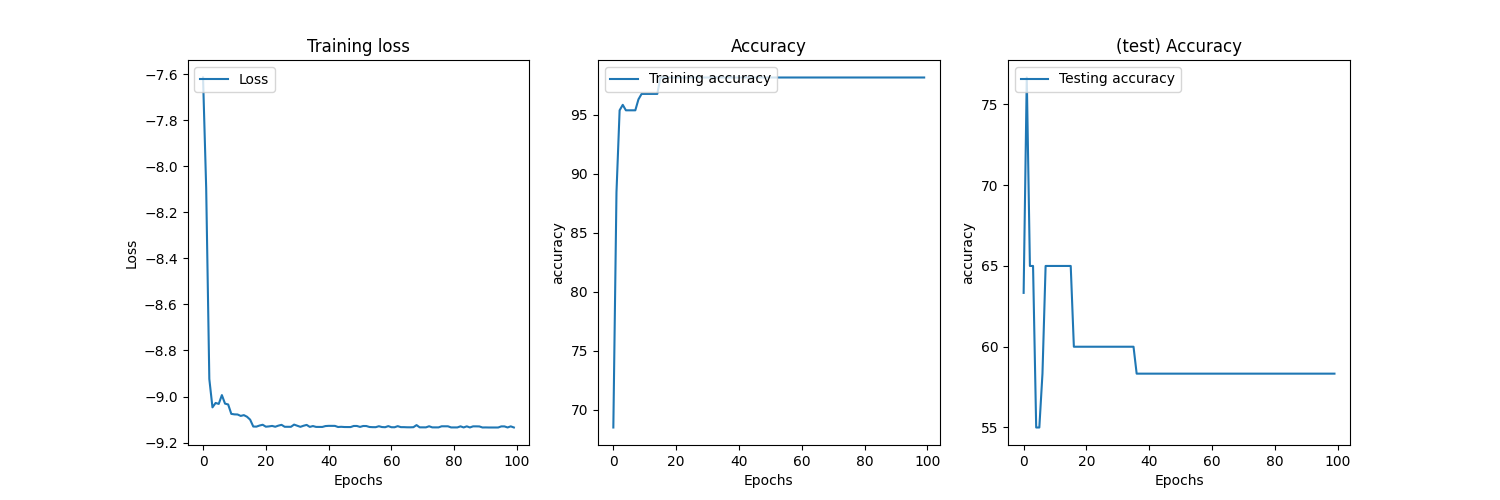
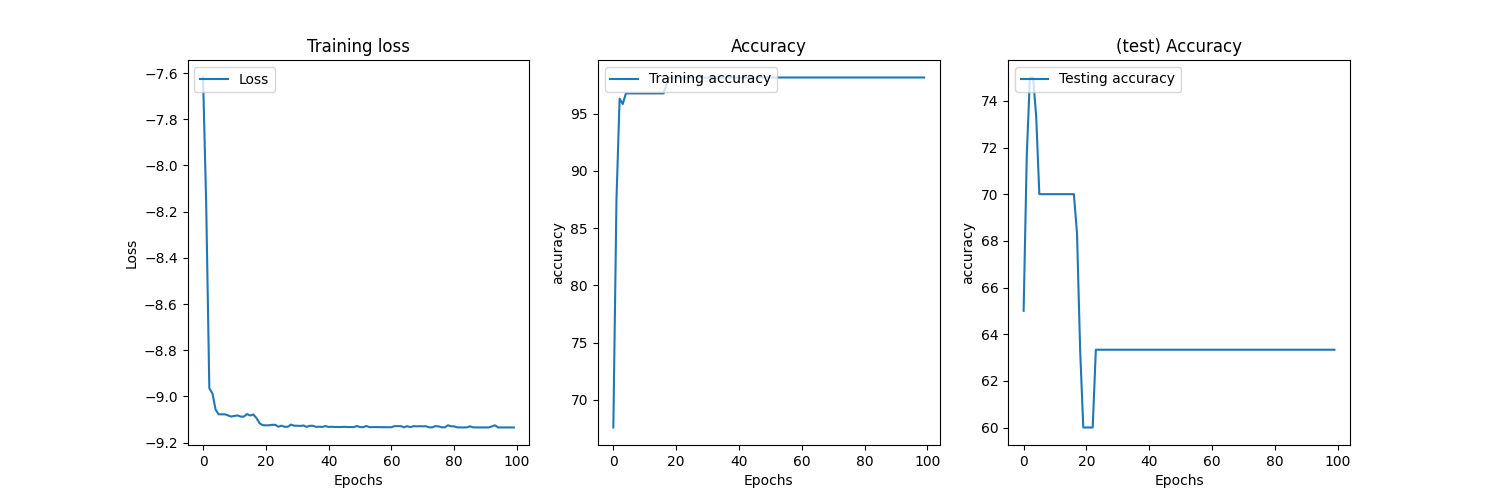
More work on ranking

diff --git a/applied/rlhf-ranking/semi_supervised_machine.py b/applied/rlhf-ranking/semi_supervised_machine.py
@@ -5,6 +5,8 @@ We add a endpoint on each model (rollout) which takes a list of items and sort i
 """
 from ranknet import Model as RanknetModel
 from listnet_list import Model as ListnetMOdel
+from listnet import Model as ListnetPlainModel
+from bolztrank import Model as BoltzrankModel
 from flask import Flask, request, jsonify
 from results import Input, Results
 from dotenv import load_dotenv
@@ -12,7 +14,7 @@ load_dotenv()
 
 from optimization_playground_shared.apis.openai_embeddings import OpenAiEmbeddings
 import torch
-from abc import ABCMeta, abstractmethod
+from abc import abstractmethod
 from typing import List
 from collections import defaultdict
 
@@ -27,15 +29,22 @@ class SemiSupervisedMachine:
         self.models: List[RankingModel] = [
             RanknetModel(embeddings_size=1536).load(),
             ListnetMOdel(embeddings_size=1536).load(),
+            ListnetPlainModel(embeddings_size=1536).load(),
+            BoltzrankModel(embeddings_size=1536).load()
         ]
     
     def rank_documents(self, items):
         documents = []
+        is_raw_input = False
         for _, doc in enumerate(items):
-            documents.append(Input(
-                item_id=doc["id"],
-                item_tensor=torch.tensor([self.embeddings.get_embedding(doc["description"])])
-            ))
+            if isinstance(doc, Input):
+                documents.append(doc)
+                is_raw_input = True
+            else:
+                documents.append(Input(
+                    item_id=doc["id"],
+                    item_tensor=torch.tensor([self.embeddings.get_embedding(doc["description"])])
+                ))
         inference = defaultdict(list)
         for model in self.models:
             results = model.rollout(documents)
@@ -44,7 +53,27 @@ class SemiSupervisedMachine:
         for result in inference:
             inference[result] = sum(inference[result])
         # Then resort it again :) based on biggest score
-        return list(sorted(items, key=lambda x: inference[x["id"]], reverse=True))
+        if is_raw_input:
+            return list(sorted(items, key=lambda x: inference[x.item_id], reverse=True)), inference
+        else:
+            return list(sorted(items, key=lambda x: inference[x["id"]], reverse=True)), inference
+
+    def rank_documents_tensor(self, items: torch.Tensor):
+        # Input will be tensors ... But I want to call them through the rank documents
+        results = torch.zeros((items.shape[0], items.shape[1]))
+        for batch_size in range(items.shape[0]):
+            documents = [
+                Input(
+                    item_id=index,
+                    item_tensor=items[batch_size][index].reshape((1, -1))
+                )
+                for index in range(items.shape[1])
+            ]
+            _, inference = self.rank_documents(documents)
+            results[batch_size] = torch.nn.Softmax(dim=0)(
+                torch.tensor([inference[i] for i in range(items.shape[1])]).float()
+            )
+        return results
 
 app = Flask(__name__)
 models = SemiSupervisedMachine()
@@ -54,7 +83,7 @@ def rank_documents():
     data = request.json
     assert type(data) == list
     # Expected to just be a list of documents
-    results = models.rank_documents(data)
+    results, _ = models.rank_documents(data)
     return jsonify(list(map(lambda x: x, results)))
 
 if __name__ == "__main__":

diff --git a/applied/rlhf-ranking/semi_supervised_machine_test.py b/applied/rlhf-ranking/semi_supervised_machine_test.py
@@ -1,0 +1,42 @@
+import torch
+from dataset_creator_list.dataloader import DocumentRankDataset
+from torch.utils.data import DataLoader
+from semi_supervised_machine import SemiSupervisedMachine
+from tqdm import tqdm
+
+if __name__ == "__main__":
+    batch_size = 8
+    model = SemiSupervisedMachine()
+    test_dataset = DocumentRankDataset(train=False, dataset_format="softmax")
+    test_loader = DataLoader(test_dataset, batch_size=batch_size, shuffle=True)
+
+    sum_accuracy = torch.tensor(0.0)
+    count = torch.tensor(0.0)
+    first_item_accuracy = torch.tensor(0.0)
+    first_item_count = torch.tensor(0.0)
+    with torch.no_grad():
+        for (item_1, item_2, item_3, item_4, item_5, label) in tqdm(test_loader):
+            X = torch.zeros((
+                item_1.shape[0],
+                5,
+                item_1.shape[1],
+            ))
+            X[:, 0, :] = item_1[:]
+            X[:, 1, :] = item_2[:]
+            X[:, 2, :] = item_3[:]
+            X[:, 3, :] = item_4[:]
+            X[:, 4, :] = item_5[:]
+            predicted_label = model.rank_documents_tensor(X)
+            order1 = torch.argsort(predicted_label, descending=True, dim=0)
+            order2 = torch.argsort(label, descending=True, dim=0)
+            sum_accuracy += (order1 == order2).long().sum()
+            count += order1.shape[0] * order1.shape[1]
+
+            order1 = torch.argmax(predicted_label, dim=0)
+            order2 = torch.argmax(label, dim=0)
+            first_item_accuracy += (order1 == order2).long().sum()
+            first_item_count += order1.shape[0]
+
+    print(f"Accuracy {sum_accuracy / count}")
+    print(f"First item accuracy {first_item_accuracy / first_item_count}")
+

diff --git a/applied/rlhf-ranking/ranknet.py b/applied/rlhf-ranking/ranknet.py
@@ -7,6 +7,7 @@ from optimization_playground_shared.plot.Plot import Plot, Figure
 from tqdm import tqdm
 from typing import List
 from results import Results, Input
+from utils import rollout_model_binary
 
 class Model(nn.Module):
     def __init__(self, embeddings_size) -> None:
@@ -39,30 +40,7 @@ class Model(nn.Module):
         return (self.forward(item_1, item_2) >= torch.tensor(0.5)).long()
 
     def rollout(self, items: List[Input]) -> List[Results]:
-        score: List[Results] = []
-        for i in items:
-            score.append(Results(
-                item_id=i.item_id,
-                item_score=0,
-                item_tensor=i.item_tensor,
-            ))
-        i = 0
-        for _ in range(100):
-            for i in range(len(score) - 1):
-                with torch.no_grad():
-                    score_item_1 = self.forward(items[i].item_tensor, items[i + 1].item_tensor).item()
-                    score_item_2 = 1 - score_item_1
-                    # Update the scores
-                    score[i].item_score = score_item_1
-                    score[i + 1].item_score = score_item_2
-                    # Now I need to update everything backwards also
-                    current_limit = max(score_item_1, score_item_2)
-                    for v in score[:i]:
-                        # we need to swap items ...
-                        if (current_limit - v.item_score) > 0.01:
-                            score = sorted(score, key=lambda x: x.item_score, reverse=True)
-                            break
-        return score
+        return rollout_model_binary(self, items)
     
     def save(self):
         torch.save({

diff --git a/applied/rlhf-ranking/listnet.py b/applied/rlhf-ranking/listnet.py
@@ -8,6 +8,10 @@ from dataset_creator_list.dataloader import DocumentRankDataset
 from torch.utils.data import DataLoader
 from optimization_playground_shared.plot.Plot import Plot, Figure
 from tqdm import tqdm
+from utils import rollout_model_binary
+from results import Results, Input
+from typing import List
+import torch
 
 class Model(nn.Module):
     def __init__(self, embeddings_size) -> None:
@@ -26,6 +30,7 @@ class Model(nn.Module):
             nn.Linear(256, 2),
             nn.Softmax(dim=1),
         ])
+        self.model_file = ".listnet.torch"
 
     def forward(self, item_1, item_2):
         delta = self.base_layers(item_1) - self.base_layers(item_2)
@@ -34,6 +39,18 @@ class Model(nn.Module):
     def label(self, item_1, item_2):
         return (self.forward(item_1, item_2) >= torch.tensor(0.5)).long()
 
+    def rollout(self, items: List[Input]) -> List[Results]:
+        return rollout_model_binary(self, items)
+    
+    def save(self):
+        torch.save({
+            "model_state": self.state_dict(),
+        }, self.model_file)
+    
+    def load(self):
+        state = torch.load(self.model_file)
+        self.load_state_dict(state["model_state"])
+        return self
 
 if __name__ == "__main__":
     batch_size = 32
@@ -118,3 +135,4 @@ if __name__ == "__main__":
         ],
         name=f'training_listnet.png'
     )
+    model.save()

diff --git a/applied/rlhf-ranking/bolztrank.py b/applied/rlhf-ranking/bolztrank.py
@@ -10,6 +10,10 @@ from torch.utils.data import DataLoader
 from optimization_playground_shared.plot.Plot import Plot, Figure
 from tqdm import tqdm
 import torch
+from results import Results, Input
+from typing import List
+import torch
+from utils import rollout_model_binary
 
 class Model(nn.Module):
     def __init__(self, embeddings_size) -> None:
@@ -29,6 +33,7 @@ class Model(nn.Module):
             nn.Linear(32 * n, 1),
             nn.Sigmoid(),
         ])
+        self.model_file = ".boltzrank.torch"
 
     def forward(self, item_1, item_2):
         assert not torch.all(item_1 == item_2)
@@ -42,6 +47,19 @@ class Model(nn.Module):
     def label(self, item_1, item_2):
         return ((self.forward(item_1, item_2)) > 0.5).long()
 
+
+    def rollout(self, items: List[Input]) -> List[Results]:
+        return rollout_model_binary(self, items)
+    
+    def save(self):
+        torch.save({
+            "model_state": self.state_dict(),
+        }, self.model_file)
+    
+    def load(self):
+        state = torch.load(self.model_file)
+        self.load_state_dict(state["model_state"])
+        return self
 
 def quality_component(expected, predicted, Rqi):
     return torch.nn.BCELoss()(expected, predicted) / Rqi
@@ -139,3 +157,4 @@ if __name__ == "__main__":
         ],
         name=f'training_boltzrank.png'
     )
+    model.save()

diff --git a/applied/rlhf-ranking/utils.py b/applied/rlhf-ranking/utils.py
@@ -1,0 +1,33 @@
+from results import Results, Input
+from typing import List
+import torch
+
+def rollout_model_binary(model, items: List[Input]) -> List[Results]:
+    score: List[Results] = []
+    for i in items:
+        score.append(Results(
+            item_id=i.item_id,
+            item_score=0,
+            item_tensor=i.item_tensor,
+        ))
+    with torch.no_grad():
+        for _ in range(100):
+            i = 1
+            swapped = False
+            while i < len(items):
+                should_swap = model.forward(score[i - 1].item_tensor, score[i].item_tensor)
+                if should_swap.shape[-1] == 1:
+                    if should_swap.item() < 0.5:
+                        score[i - 1], score[i] = score[i], score[i - 1]
+                        swapped = True
+                elif should_swap[0][0] > should_swap[0][1]:
+                    score[i - 1], score[i] = score[i], score[i - 1]
+                    swapped = True
+                i += 1
+            if not swapped:
+                break
+    # distrusted score
+    softmax = torch.nn.Softmax(dim=0)(torch.arange(len(score), 0, -1).float())
+    for index in range(len(score)):
+        score[index].item_score = softmax[index]
+    return score
